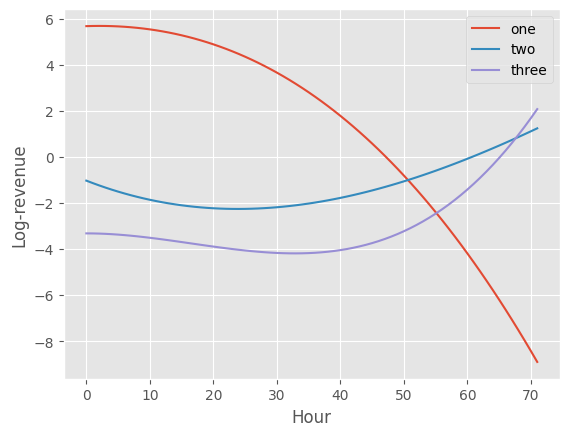
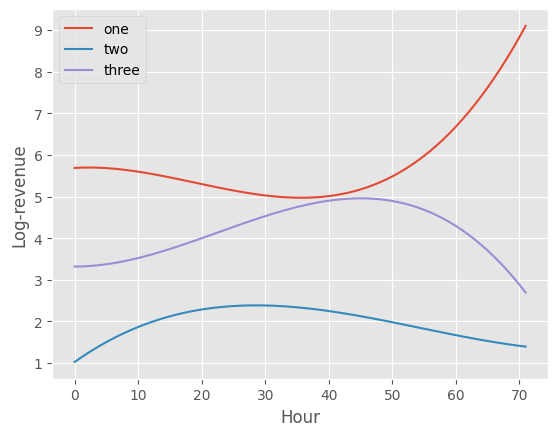
WIP

diff --git a/_posts/2025-01-20-Simple-Ad-Hoc.md b/_posts/2025-01-20-Simple-Ad-Hoc.md
@@ -1,7 +1,7 @@
 ---
 layout: post
 title:  "Your 'simple' and 'practical' ad-hoc solution may be neither simple nor practical."
-tags: [pytorch,machine-learning,regression,moving-average,poisson]
+tags: [pytorch,machine-learning,regression,moving-average]
 description: Your exponential moving average trick is gradient descent in disguise. 
 comments: true
 image: /assets/polyedral_cone_layer.png
@@ -44,9 +44,9 @@ Whoa! Now we have several questions to ask here:
 2. The loss functions aim to minimize the mean-squared error. Is this the right thing to do for money? Do we care about absolute errors, or relative (percentage) errors?
 3. Don't we have other simple alternatives to gradient descent that perform better in this setting?
 
-# Simulating ad campaigns 
+# Simulating ad campaigns
 
-So before trying different alternatives to exponential smoothing, let's first write some utility functions to simulate the revenue of ad campaigns. This is, of course, just a simulation, and we are going to make some assumptions.
+So before we study exponential smoothing in a bit more detail, let's first write some utility functions to simulate the revenue of ad campaigns. This is, of course, just a simulation, and we are going to make some assumptions.
 
 Our ad campaign hourly revenue is going to be composed of two components - a periodic component, repeating every day, and a global trend. This will model the logarithm of the _mean_ revenue in each hour. So let's start from the periodic part:
 
@@ -83,7 +83,7 @@ plt.legend()
 plt.show()
 ```
 
-![periodic](/home/alex/git/alexshtf.github.io/assets/smooth_ogd/periodic.png)
+![periodic](../assets/smooth_ogd/periodic.png)
 
 Seems indeed like a bunch of random waveforms that repeat every 24 hours. Now let's generate some 'global' trends that are not trivial. For that, I found it easy to use the well-known [Bezier curves](https://en.wikipedia.org/wiki/B%C3%A9zier_curve):
 
@@ -97,7 +97,6 @@ def global_trend(hours, total_hours=72):
     global_trend_basis = scipy.stats.binom.pmf(
         np.arange(4), 3, normalized_hours.reshape(-1, 1))
     return 3 * global_trend_basis @ global_trend_coef
-
 ```
 
 Again, the coefficients come from the Student-T distribution to create interesting and diverse curves. Here are three such curves:
@@ -112,6 +111,211 @@ plt.legend()
 plt.show()
 ```
 
+![global](../assets/smooth_ogd/global.png)
+
+So now we can product interesting trends by summing up the two randomly generated trends. Here is an example of three log-mean-revenue trends for three ad campaigns running for 72 hours:
+
+```python
+plt.plot(periodic_trend(hours) + global_trend(hours), label='one')
+plt.plot(periodic_trend(hours) + global_trend(hours), label='two')
+plt.plot(periodic_trend(hours) + global_trend(hours), label='three')
+plt.xlabel('Hour')
+plt.ylabel('Log-revenue')
+plt.legend()
+plt.show()
+```
+
+![trends](../assets/smooth_ogd/trends.png)
+
+Nice! Indeed, we got diverse log-revenue curves.
+
+The last part is actually generating hourly revenue samples, rather than means. To make things a bit more challenging and more realistic, we note that occasionally ad campaigns produce _no_ revenue ad all for an entire hour, for various reasons. So we shall use [zero-inflated](https://en.wikipedia.org/wiki/Zero-inflated_model) [log-normal](https://en.wikipedia.org/wiki/Log-normal_distribution) distributions to generate samples.  Zero-inflated, because there is some unusually large probability to get a zero. In our case, the probability of getting  zero revenue increases as the mean gets closer to zero. We use log-normal, because typically revenue samples tend to go a bit far from the mean, and the log-normal distribution model them well enough[^1].
+
+```python
+def zero_inflated_lognormal(log_means, lognormal_sigma=0.3):
+    # p_zero is higher when mean-revenue is smaller, with this 'hairy' formula
+    means = np.exp(log_means)
+    p_zero = 1 - np.sqrt(np.arcsinh(means) / np.arcsinh(1 + np.max(means)))
+
+    lognormal_mu = log_means - np.log1p(-p_zero) - (lognormal_sigma ** 2) / 2
+    lognormals = np.random.lognormal(lognormal_mu, lognormal_sigma)
+    nonzero_indicators = np.random.binomial(2, 1 - p_zero)
+    return lognormals * nonzero_indicators
 
 
-Moreover, there may be hours where an ad campaign does not produce revenue at all because its ads haven't received traffic. We shall assume that this happens during the more 'quiet' periods of the day more often than the more crowded parts, so the probability 
+def simulate_campaign(seed=42):
+    np.random.seed(seed)
+
+    num_hours = 72
+    ts = np.arange(0, num_hours)
+    log_means = periodic_trend(ts) + global_trend(ts, num_hours)
+    samples = zero_inflated_lognormal(log_means)
+
+    return ts, np.exp(log_means), samples
+```
+
+I don't want to go into the hairy formulas there, but instead I will just plot four ad campaigns (one for each random seed) to show you how the revenue samples look like:
+
+```python
+figure, axs = plt.subplots(2, 2, figsize=(12, 8))
+axs = axs.ravel()
+for i, seed in enumerate([42, 43, 44, 45]):
+    hours, means, samples = simulate_campaign(seed)
+
+    # plot revenue means
+    axs[i].plot(hours, means, label='mean')
+    
+    # plot revenue samples
+    s = axs[i].scatter(hours, samples, alpha=0.5, label='samples')
+
+    # plot bars connecting means to samples
+    bars_style=dict(color=s.get_facecolor(), ls='--')
+    for t, m, y in zip(hours, means, samples):
+        axs[i].plot([t, t], [m, y], **bars_style)
+
+    axs[i].set_yscale('asinh') # like log-scale, but supports zero and near-zero values
+    axs[i].set_xlabel('Hour')
+    axs[i].set_ylabel('Revenue')
+```
+
+![campaign_samples](../assets/smooth_ogd/campaign_samples.png)
+
+Alright! They indeed seem diverse, and occasionally have a zero revenue here and there. Now we are ready to play.
+
+# Playing with exponential smoothing
+
+Implementing exponential smoothing is quite easy:
+
+```python
+def exp_smooth(samples, alpha):
+    r = np.zeros_like(samples)
+    r[0] = samples[0]
+    for t in range(1, len(samples)):
+        r[t] = alpha * samples[t] + (1 - alpha) * r[t - 1]
+    return r
+```
+
+The vector `r` is filled with exponentially-smoothed samples by directly applying the formula. No magic.  Let's visually appreciate the predictions this method produces by generating a campaign, running the method, and plotting the predictions vs means for various parameters $$\alpha$$:
+
+```python
+import matplotlib.pyplot as plt
+
+# a generic prediction plotting function that we will use for other methods too, not only
+# for exponential smoothing
+def plot_predictions(predictor, predictor_name, params, param_name, seed=42):
+    ts, means, samples = simulate_campaign(seed=seed)
+
+    plt.plot(ts, means, label='True means')
+    for p in params:
+        preds = predictor(samples, p)
+        plt.plot(ts, preds, '--', alpha=0.5, label=f'{predictor_name} with {param_name}={p}')
+    plt.legend()
+    plt.yscale('log')
+    plt.show()
+
+
+# running our prediction plotting function for exponential smoothing
+plot_predictions(exp_smooth, 'Exp-Smoothing', [0.1, 0.5, 0.9], '$\\alpha$')
+```
+
+![exp_smooth_predictions](../assets/smooth_ogd/exp_smooth_predictions.png)
+
+Well, we can see that a small $$\alpha$$ smoothed out the revenue trend a lot, as expected. We give a higher weight to historical samples, and lower weight to recent samples. This is reversed for higher values of $$\alpha$$, where the smoothed-out curve tends to give a higher weight to recent samples and discard history faster. So how well does it perform? Well, let's measure _two_ prediction errors:
+
+1.   Root Mean-Squared Error: $$\mathrm{RMSE} =\sqrt{ \frac{1}{n} \sum_{i=1}^n (y_i - y_i^{\mathrm{true}} )^2 }$$
+2.   Mean relative error: $$\mathrm{MRE} = \frac{1}{n} \sum_{i=1}^n \frac{2|y_i - y_i^{\mathrm{true}}|}{y_i + y_i^{\mathrm{true}}}$$
+
+The root mean-squared error is what actually the squared loss is optimizing for. The square-root is typically added to restore the units of the euro back to the original units of the predicted variable. How many percents are we away from the true prediction? Note, that here we use a _symmetrized_ version of the relative error, to account for the fact that $$y_i$$ or $$y_i^{\mathrm{true}}$$ may be zero. Let's implement the two metrics:
+
+```python
+def mean_relative_error(y, yref):
+    return np.mean(np.abs(y - yref) / np.maximum(y, yref))
+
+def rmse(y, y_ref):
+    return np.sqrt(np.mean(np.square(y - y_ref)))
+```
+
+Now we can compute them for various choices of the hyper-parameter $$\alpha$$, and plot them:
+
+```python
+import pandas as pd
+
+# a generic function for computing relative errors of a predictor
+# for various hyper-parameter values. It runs the predictor with 
+# each hyper-parameter and computes the errors.
+def compute_errors(samples, means, predictor, params, param_name):
+    relative_errors = np.zeros_like(params)
+    rmses = np.zeros_like(params)
+    for i, p in enumerate(params):
+        preds = predictor(samples, p)
+        relative_errors[i] = mean_relative_error(preds, means)
+        rmses[i] = rmse(preds, means)
+
+    return pd.DataFrame({
+            param_name: params,
+            'Mean relative error': relative_errors,
+            'RMSE': rmses
+        })
+
+# simulates an ad campaign and plots its prediction errros
+def plot_errors(predictor, params, param_name, seed=42):
+    ts, means, samples = simulate_campaign(seed=seed)
+    error_df = compute_errors(samples, means, predictor, params, param_name)
+    error_df.plot(x=param_name, 
+                  y=['Mean relative error', 'RMSE'], 
+                  secondary_y=['RMSE'],
+                  legend=True, 
+                  logx=True)
+ 
+# use our generic prediction error plotting to visualize
+# exponential-smoothing prediction errors
+plot_errors(exp_smooth, np.linspace(0.01, 1, 30), '$\\alpha$')
+```
+
+![exp_smooth_errors](../assets/smooth_ogd/exp_smooth_errors.png)
+
+The relative error is plotted on the left y-axis, whereas the RMSE is on the right y-axis. We can see two interesting phenomena:
+
+*   The prediction error heavily depends on the step-size.
+*   The relative error, which is what we truly care about, does not necessarily correlate with the RMSE. Indeed, a larger $$\alpha$$ degrades the RMSE, but actually improves the relative error.
+
+How much does it depend on the step-size? Well let's try visualizing the mean relative error for four different ad campaigns as a function of the step-size. The four ad campaigns are generated with four different random seeds.
+
+```python
+def plot_multiple_errors(predictor, params, param_name, seeds=[1, 100, 500, 1000]):
+    for seed in seeds:
+        ts, means, samples = simulate_campaign(seed=seed)
+        error_df = compute_errors(samples, means, predictor, params, param_name)
+        plt.plot(error_df[param_name], 
+                 error_df['Mean relative error'], 
+                 label=f'Seed = {seed}')
+    plt.legend()
+    plt.show()
+
+plot_multiple_errors(exp_smooth, np.linspace(0.1, 1, 20), '$\\alpha$')
+```
+
+![exp_smooth_stepsize_errors](../assets/smooth_ogd/exp_smooth_stepsize_errors.png)
+
+We can see that for the campaign generated by $$\mathrm{seed}=1$$ the best prediction error is obtained around $$\alpha\approx0.4$$, and significantly increases away from this value. In contrast, the campaign generated by $$\mathrm{seed}=500$$ achieves its best error around $$\alpha \approx 0.9$$. This actually means that it is extremely hard to tune a smoothing parameter $$\alpha$$ that works well accross ad campaigns. This leads us to a conclusion that
+
+>   upon close inspection, the "simple and practical" exponential smoothing method is may be neither **simple** nor **practical**.
+
+It's not simple to tune a parameter for every campaign, and it's not practical to do so. It's actually an extremely hard problem. Some readers may claim that choosing a step-size that doesn't work so well is a good initial baseline to start with. But I hope thay reading the remainder of this post will convince you that extremely easy to implement methods that essentially do the same, update  one number per campaign with a few lines of Python code, are significantly better initial baselines.
+
+For me, a simple algorithm is not only one which is easy to implement and deploy, but also one that requires little 'babysitting'. In our case, it's tuning step-sizes, and monitoring it in production to see that it doesn't produce unreasonable predictions for various campaigns.  
+
+In the remainder of this post we will see that the optimization perspective, viewing exponential smoothing as gradient descent, lets us address the two desiderata: customizing for what the business needs (relative error), and reduction of babysitting.
+
+# Relative error
+
+
+
+
+
+---
+
+**References**
+
+[^1]: Stram, R., Abboud, R., Shtoff, A., Somekh, O., Raviv, A., & Koren, Y. (2024, May). Mystique: A Budget Pacing System for Performance Optimization in Online Advertising. In *Companion Proceedings of the ACM on Web Conference 2024* (pp. 433-442).
+
